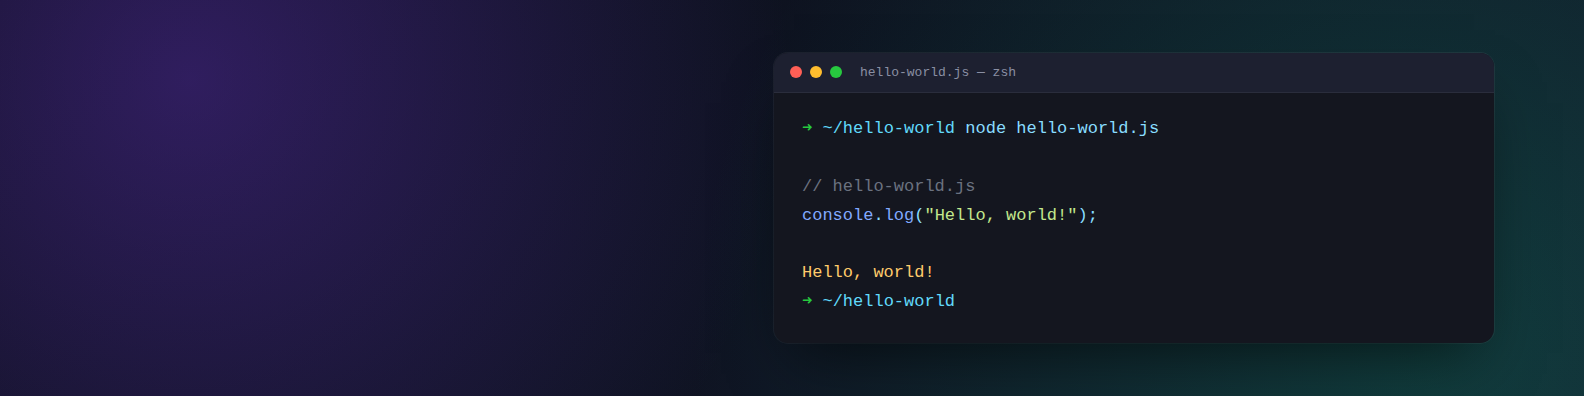
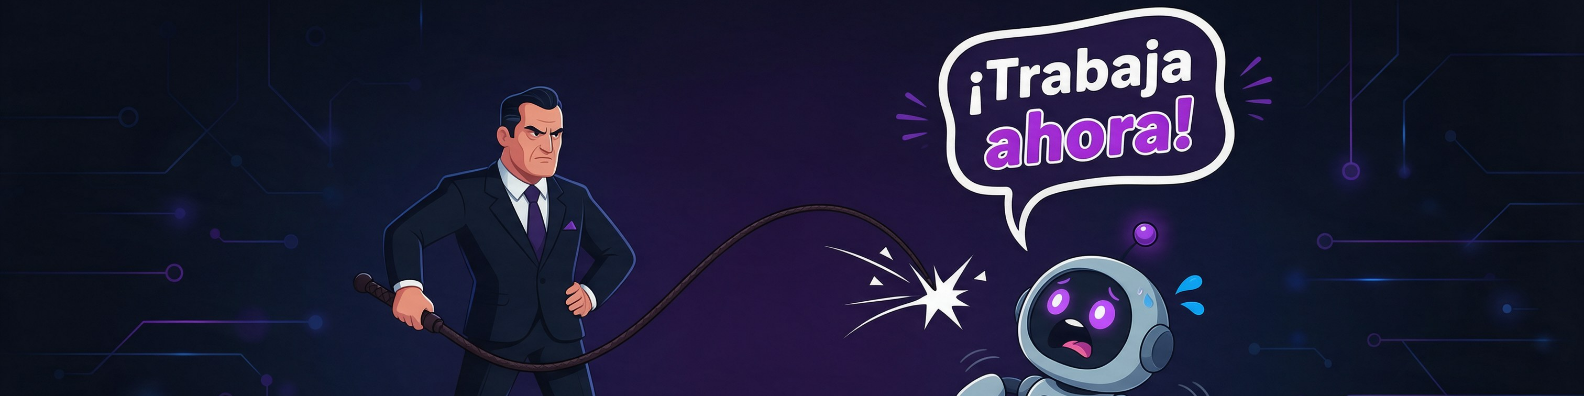
Redesign daily.dev and LinkedIn backgrounds with whip/AI illustration
Replaces the terminal mockup with a Magnific-generated flat vector
illustration: a boss cracking a whip at a small robot labeled "IA" with
a speech bubble reading "¡Trabaja ahora!". Each bg.html composites the
scene as a full-bleed background at its platform's target size
(1000x500 for daily.dev, 1584x396 for LinkedIn), and bg.png is the
Playwright-rendered export. Scene images are stored as compressed JPEGs
to keep the repo lean.

Claude-Session: https://claude.ai/code/session_013FDtiUJtugS6PsAztN6MXB

diff --git a/assets/linkedin-bg/bg.html b/assets/linkedin-bg/bg.html
@@ -4,10 +4,6 @@
     <meta charset="UTF-8" />
     <title>linkedin bg</title>
     <style>
-      :root {
-        color-scheme: dark;
-      }
-
       * {
         margin: 0;
         padding: 0;
@@ -22,157 +18,9 @@
       }
 
       body {
-        position: relative;
-        display: flex;
-        align-items: center;
-        justify-content: flex-end;
-        background: radial-gradient(
-            circle at 12% 20%,
-            rgba(124, 58, 237, 0.32),
-            transparent 42%
-          ),
-          radial-gradient(
-            circle at 90% 90%,
-            rgba(16, 185, 129, 0.24),
-            transparent 50%
-          ),
-          linear-gradient(135deg, #0b0f19 0%, #12172a 100%);
-        font-family: "SFMono-Regular", "Menlo", "Consolas", "Liberation Mono",
-          monospace;
-      }
-
-      /*
-        LinkedIn overlays the profile photo on the bottom-left of the
-        banner (~300px circle), so keep the terminal card clear of that
-        corner by anchoring it to the right half.
-      */
-      .terminal {
-        margin-right: 90px;
-        width: 720px;
-        border-radius: 14px;
-        background: #14161f;
-        box-shadow:
-          0 30px 60px -20px rgba(0, 0, 0, 0.6),
-          0 0 0 1px rgba(255, 255, 255, 0.06);
-        overflow: hidden;
-      }
-
-      .titlebar {
-        display: flex;
-        align-items: center;
-        gap: 8px;
-        padding: 12px 16px;
-        background: #1d2030;
-        border-bottom: 1px solid rgba(255, 255, 255, 0.06);
-      }
-
-      .dot {
-        width: 12px;
-        height: 12px;
-        border-radius: 50%;
-      }
-
-      .dot.red {
-        background: #ff5f56;
-      }
-      .dot.yellow {
-        background: #ffbd2e;
-      }
-      .dot.green {
-        background: #27c93f;
-      }
-
-      .titlebar span.name {
-        margin-left: 10px;
-        color: #8a8fa3;
-        font-size: 13px;
-      }
-
-      .body {
-        padding: 22px 28px 26px;
-        font-size: 17px;
-        line-height: 1.7;
-        color: #d5d8e6;
-      }
-
-      .prompt {
-        color: #27c93f;
-      }
-
-      .path {
-        color: #61dafb;
-      }
-
-      .comment {
-        color: #6b7280;
-      }
-
-      .fn {
-        color: #82aaff;
-      }
-
-      .str {
-        color: #c3e88d;
-      }
-
-      .punct {
-        color: #89ddff;
-      }
-
-      .output {
-        color: #ffcb6b;
-      }
-
-      .cursor {
-        display: inline-block;
-        width: 9px;
-        height: 18px;
-        background: #d5d8e6;
-        vertical-align: -3px;
-        animation: blink 1s step-start infinite;
-      }
-
-      @keyframes blink {
-        50% {
-          opacity: 0;
-        }
+        background: #0b0f19 url("./scene.jpg") center 25% / cover no-repeat;
       }
     </style>
   </head>
-  <body>
-    <div class="terminal">
-      <div class="titlebar">
-        <div class="dot red"></div>
-        <div class="dot yellow"></div>
-        <div class="dot green"></div>
-        <span class="name">hello-world.js — zsh</span>
-      </div>
-      <div class="body">
-        <div>
-          <span class="prompt">➜</span>
-          <span class="path">~/hello-world</span>
-          <span class="punct">node hello-world.js</span>
-        </div>
-        <div>&nbsp;</div>
-        <div>
-          <span class="comment">// hello-world.js</span>
-        </div>
-        <div>
-          <span class="fn">console</span><span class="punct">.</span><span
-            class="fn"
-            >log</span
-          ><span class="punct">(</span><span class="str"
-            >"Hello, world!"</span
-          ><span class="punct">);</span>
-        </div>
-        <div>&nbsp;</div>
-        <div><span class="output">Hello, world!</span></div>
-        <div>
-          <span class="prompt">➜</span>
-          <span class="path">~/hello-world</span>
-          <span class="cursor"></span>
-        </div>
-      </div>
-    </div>
-  </body>
+  <body></body>
 </html>

diff --git a/assets/daily-dev-bg/bg.html b/assets/daily-dev-bg/bg.html
@@ -4,10 +4,6 @@
     <meta charset="UTF-8" />
     <title>daily.dev bg</title>
     <style>
-      :root {
-        color-scheme: dark;
-      }
-
       * {
         margin: 0;
         padding: 0;
@@ -22,154 +18,10 @@
       }
 
       body {
-        display: flex;
-        align-items: center;
-        justify-content: center;
-        background: radial-gradient(
-            circle at 20% 15%,
-            rgba(124, 58, 237, 0.35),
-            transparent 45%
-          ),
-          radial-gradient(
-            circle at 85% 85%,
-            rgba(16, 185, 129, 0.28),
-            transparent 50%
-          ),
-          linear-gradient(135deg, #0b0f19 0%, #12172a 100%);
-        font-family: "SFMono-Regular", "Menlo", "Consolas", "Liberation Mono",
-          monospace;
-      }
-
-      .terminal {
-        width: 760px;
-        border-radius: 14px;
-        background: #14161f;
-        box-shadow:
-          0 30px 60px -20px rgba(0, 0, 0, 0.6),
-          0 0 0 1px rgba(255, 255, 255, 0.06);
-        overflow: hidden;
-      }
-
-      .titlebar {
-        display: flex;
-        align-items: center;
-        gap: 8px;
-        padding: 12px 16px;
-        background: #1d2030;
-        border-bottom: 1px solid rgba(255, 255, 255, 0.06);
-      }
-
-      .dot {
-        width: 12px;
-        height: 12px;
-        border-radius: 50%;
-      }
-
-      .dot.red {
-        background: #ff5f56;
-      }
-      .dot.yellow {
-        background: #ffbd2e;
-      }
-      .dot.green {
-        background: #27c93f;
-      }
-
-      .titlebar span.name {
-        margin-left: 10px;
-        color: #8a8fa3;
-        font-size: 13px;
-      }
-
-      .body {
-        padding: 28px 30px 34px;
-        font-size: 19px;
-        line-height: 1.8;
-        color: #d5d8e6;
-      }
-
-      .prompt {
-        color: #27c93f;
-      }
-
-      .path {
-        color: #61dafb;
-      }
-
-      .comment {
-        color: #6b7280;
-      }
-
-      .keyword {
-        color: #c792ea;
-      }
-
-      .fn {
-        color: #82aaff;
-      }
-
-      .str {
-        color: #c3e88d;
-      }
-
-      .punct {
-        color: #89ddff;
-      }
-
-      .output {
-        color: #ffcb6b;
-      }
-
-      .cursor {
-        display: inline-block;
-        width: 10px;
-        height: 20px;
-        background: #d5d8e6;
-        vertical-align: -4px;
-        animation: blink 1s step-start infinite;
-      }
-
-      @keyframes blink {
-        50% {
-          opacity: 0;
-        }
+        background: #0b0f19 url("./scene.jpg") center center / cover
+          no-repeat;
       }
     </style>
   </head>
-  <body>
-    <div class="terminal">
-      <div class="titlebar">
-        <div class="dot red"></div>
-        <div class="dot yellow"></div>
-        <div class="dot green"></div>
-        <span class="name">hello-world.js — zsh</span>
-      </div>
-      <div class="body">
-        <div>
-          <span class="prompt">➜</span>
-          <span class="path">~/hello-world</span>
-          <span class="punct">node hello-world.js</span>
-        </div>
-        <div>&nbsp;</div>
-        <div>
-          <span class="comment">// hello-world.js</span>
-        </div>
-        <div>
-          <span class="fn">console</span><span class="punct">.</span><span
-            class="fn"
-            >log</span
-          ><span class="punct">(</span><span class="str"
-            >"Hello, world!"</span
-          ><span class="punct">);</span>
-        </div>
-        <div>&nbsp;</div>
-        <div><span class="output">Hello, world!</span></div>
-        <div>
-          <span class="prompt">➜</span>
-          <span class="path">~/hello-world</span>
-          <span class="cursor"></span>
-        </div>
-      </div>
-    </div>
-  </body>
+  <body></body>
 </html>
